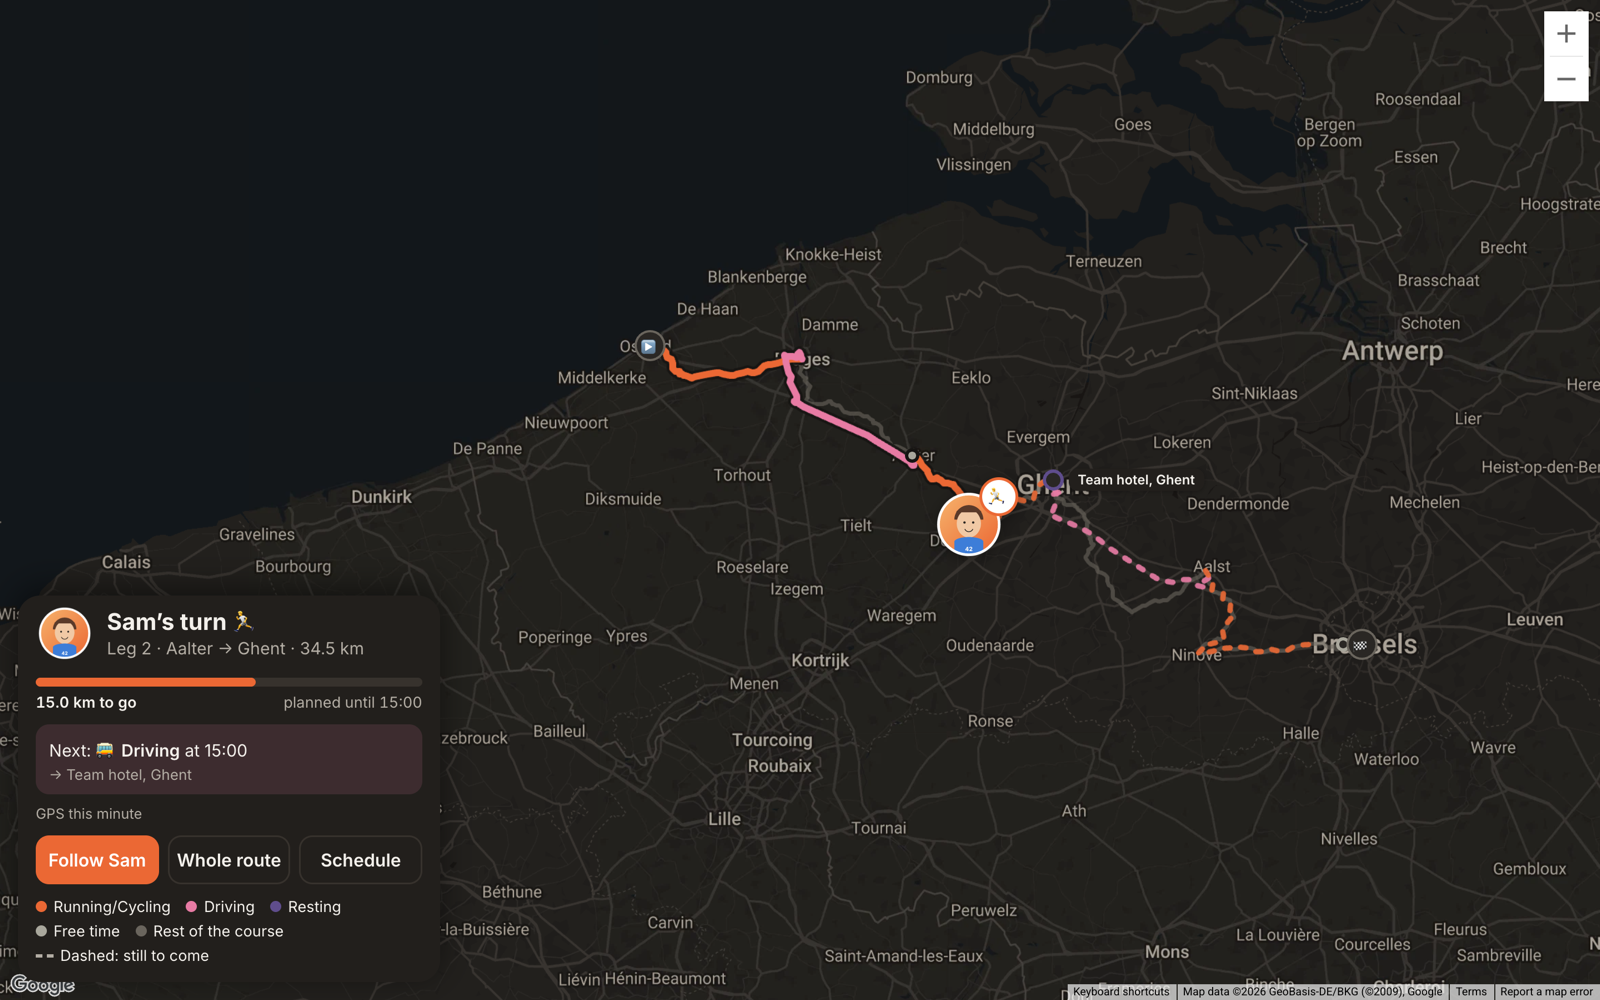
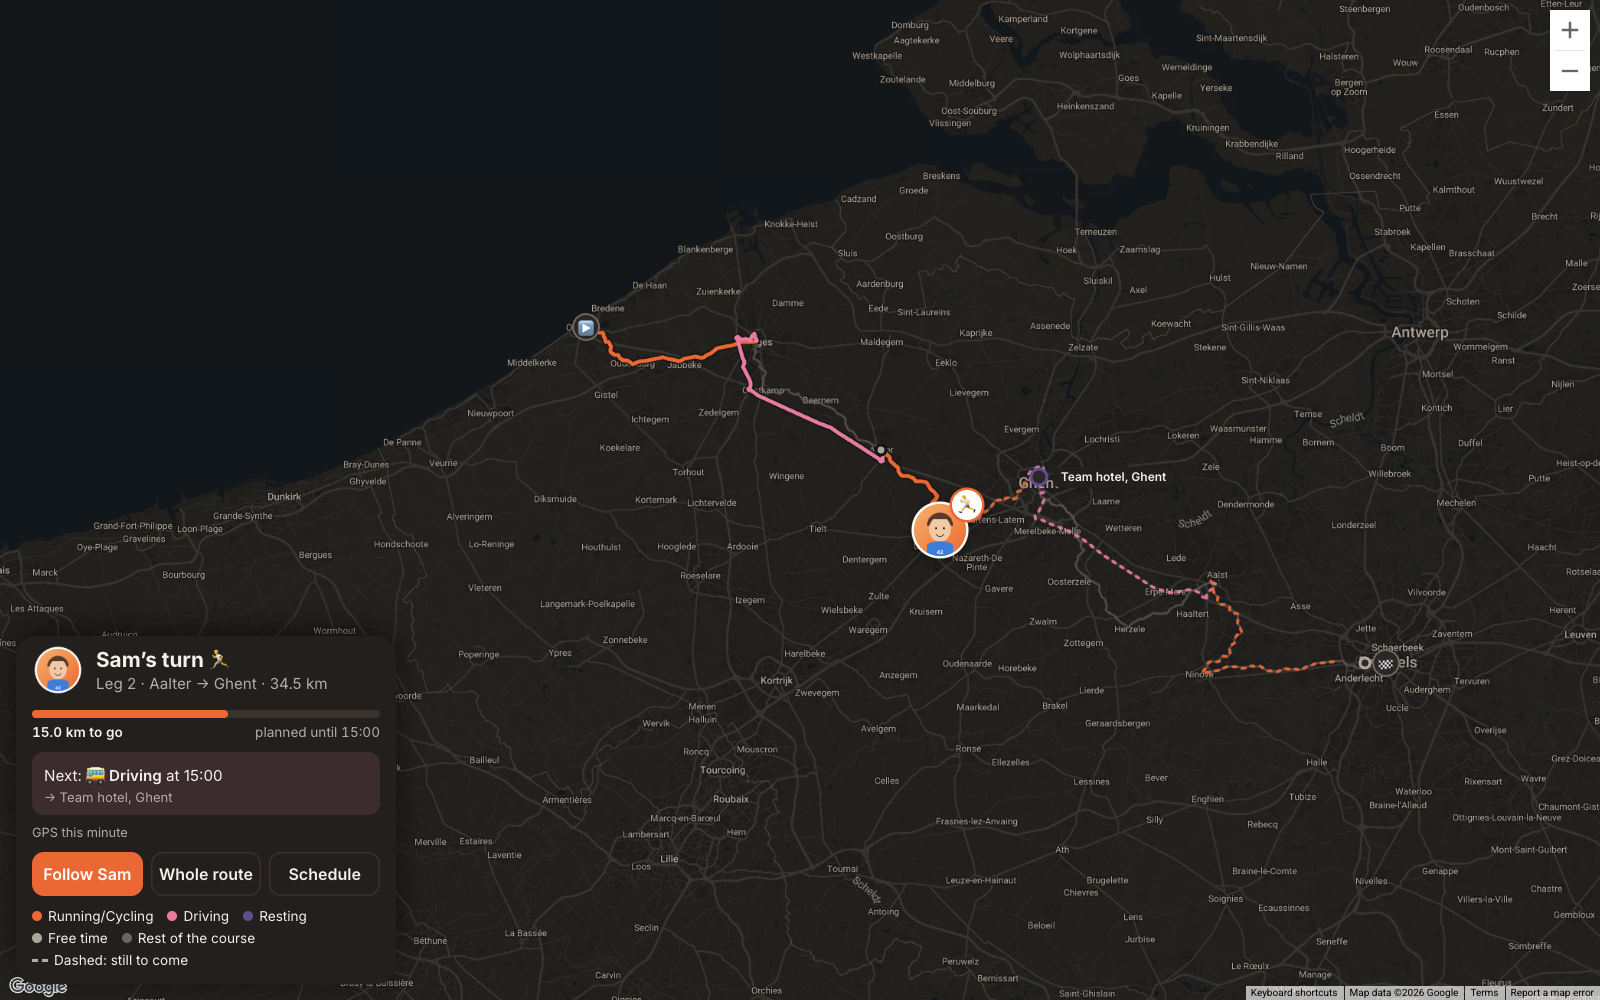
Bring the README and screenshots up to date (#16)
* Retake the example screenshots, the phone one showing the team's faded badge

* Describe the quiet tracker projection and the drive-to-leg timing in the README

diff --git a/README.md b/README.md
@@ -29,7 +29,7 @@ documented API and could change.
 
 <p>
   <img src="docs/screenshot-desktop.png" width="72%" alt="The example page on a computer: Sam halfway through leg 2 on a dark map of the course from Ostend to Brussels, with 15 km to go and live GPS">
-  <img src="docs/screenshot-phone.png" width="24%" alt="The example page on a phone: Sam on the bus to the team hotel, arriving in about 9 minutes">
+  <img src="docs/screenshot-phone.png" width="24%" alt="The example page on a phone: Sam resting at the team hotel in Ghent, with the rest of the team shown faded further along the course">
 </p>
 
 ⚠ **Ask first.** This page shows a real person's live location to anyone with
@@ -270,7 +270,8 @@ The schedule is a guide, and the trackers correct it:
 - **Before a leg** the runner is waiting in the vehicle until the runner coming
   in reaches them, however late that is. The card estimates when, at an average
   jog of 9 km/h, or at the incoming runner's own pace once the page has watched
-  them for a minute.
+  them for a minute. On the drive to a leg, the time given for it is whichever
+  is later: the vehicle arriving, or the runner coming in reaching the start.
 - **The surest handover point is the vehicle itself.** When it is parked on the
   course near the end of a leg, ahead of the runner, with other team vehicles
   gathered around it and not moving, the leg ends there once the runner is
@@ -282,6 +283,11 @@ The schedule is a guide, and the trackers correct it:
   if the vehicle takes another road. The arrival time comes from Google's
   estimate with today's traffic. A drive carries on past its planned end until
   the vehicle is at the door or parked nearby.
+- **If the runner tracker goes quiet** while Chronorace still answers, its fix
+  is carried on along the course at the pace last seen, once it is two minutes
+  old and for up to an hour. It stops half a kilometre short of the next place
+  one of the runner's legs starts or ends, so only a real fix can say a leg has
+  changed hands. The card says the tracker is quiet and what pace it assumes.
 - **After the finish** the runner stays on the finish line. 🏁
 - **If Chronorace fails**, the problem is logged to the browser console and the
   position is estimated from the schedule: time divided equally along the leg
